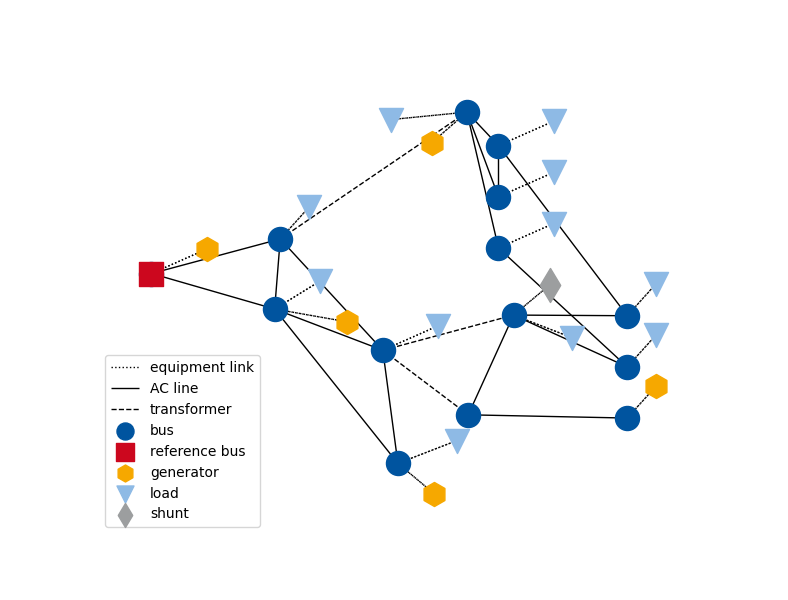
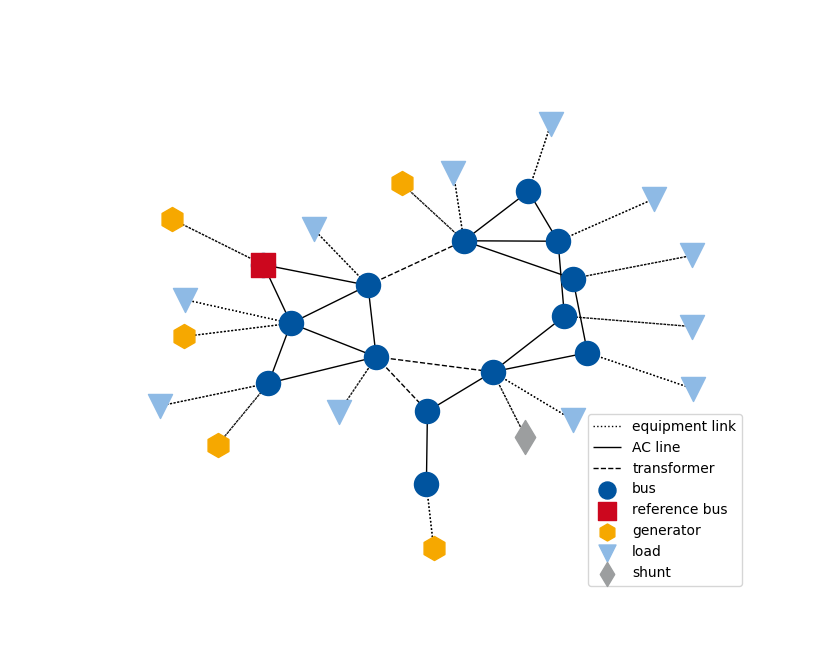
change drawing layout to pos = nx.nx_pydot.graphviz_layout(G); fixes #3

diff --git a/opf_dataset_utils/plotting/draw.py b/opf_dataset_utils/plotting/draw.py
@@ -12,7 +12,6 @@ from opf_dataset_utils.enumerations import (
 )
 from opf_dataset_utils.plotting.utils import (
     edge_index_to_list_of_tuples,
-    set_equipment_node_distances,
 )
 
 
@@ -32,9 +31,6 @@ def draw_graph(heterogenous_data: HeteroData, ax: Axes, **nx_node_kwargs):
     -------
 
     """
-
-    # TODO maybe draw the bus subgraph first (calculate pos just for those);
-    #  then for each draw it"s loads/generators/shunts (calculate pos for that tree with the bus as a root)
 
     # to homogeneous and networkx
     homogenous_data = heterogenous_data.to_homogeneous()
@@ -56,26 +52,13 @@ def draw_graph(heterogenous_data: HeteroData, ax: Axes, **nx_node_kwargs):
 
     # determine which node is the reference node
     reference_mask = heterogenous_data.x_dict[NodeTypes.BUS][:, GridBusIndices.BUS_TYPE] == BusTypes.REFERENCE
-    reference_node = (
-        heterogenous_data.node_offsets[NodeTypes.BUS]
-        + torch.arange(0, heterogenous_data.x_dict[NodeTypes.BUS].shape[0])[reference_mask]
-    )
-    if len(reference_node) > 1:
-        reference_node = reference_node[0]
 
-    # attempt a decently clean layout
-    pos = nx.kamada_kawai_layout(
-        G,
-        dist=set_equipment_node_distances(
-            heterogenous_data, edge_type_ids, distance=0.15
-        ),  # set equipment close to their corresponding buses
-        pos=nx.bfs_layout(G, start=reference_node.item()),  # init with breath first search layout
-    )
+    pos = nx.nx_pydot.graphviz_layout(G)
 
     # draw different edge types
     ac_line_mask = homogenous_data["edge_type"] == edge_type_ids[(NodeTypes.BUS, EdgeTypes.AC_LINE, NodeTypes.BUS)]
     transformer_mask = (
-        homogenous_data["edge_type"] == edge_type_ids[(NodeTypes.BUS, EdgeTypes.TRANSFORMER, NodeTypes.BUS)]
+            homogenous_data["edge_type"] == edge_type_ids[(NodeTypes.BUS, EdgeTypes.TRANSFORMER, NodeTypes.BUS)]
     )
 
     equipment_links = edge_index_to_list_of_tuples(
@@ -111,7 +94,6 @@ def draw_graph(heterogenous_data: HeteroData, ax: Axes, **nx_node_kwargs):
                 ax=ax,
                 nodelist=torch.arange(0, homogenous_data.num_nodes)[node_mask][reference_mask].tolist(),
                 node_color="#cc071e",
-                # node_shape=node_type_shapes[node_type],
                 node_shape="s",
                 label="reference bus",
                 **nx_node_kwargs,

diff --git a/opf_dataset_utils/plotting/utils.py b/opf_dataset_utils/plotting/utils.py
@@ -6,46 +6,6 @@ from torch_geometric.data import HeteroData
 from opf_dataset_utils.enumerations import EdgeTypes
 
 
-def set_equipment_node_distances(heterogenous_data: HeteroData, edge_type_ids: Dict, distance: float = 0.2) -> Dict:
-    """
-    Set the distances of the equipment nodes from their respective bus node.
-    Parameters
-    ----------
-    heterogenous_data: HeteroData
-        Heterogenous OPFData.
-    edge_type_ids: Dict
-        Dictionary of edge types and their corresponding IDs in the edge store.
-    distance: float
-        Distance setpoint.
-
-    Returns
-    -------
-    node_distances: Dict
-        Node distances.
-    """
-    edge_lengths = {
-        EdgeTypes.GENERATOR_LINK: distance,
-        EdgeTypes.LOAD_LINK: distance,
-        EdgeTypes.SHUNT_LINK: distance,
-    }
-
-    node_distances = {}
-    for edge_type in edge_type_ids.keys():
-        if edge_type[1] in [EdgeTypes.AC_LINE, EdgeTypes.TRANSFORMER]:
-            continue
-
-        edge_index = heterogenous_data.edge_stores[edge_type_ids[edge_type]]["edge_index"]
-
-        for i, j in zip(edge_index[0], edge_index[1]):
-            source = i.item() + heterogenous_data.node_offsets[edge_type[0]]
-            target = j.item() + heterogenous_data.node_offsets[edge_type[2]]
-            if source not in node_distances:
-                node_distances[source] = {}
-            node_distances[source][target] = edge_lengths[edge_type[1]]
-
-    return node_distances
-
-
 def edge_index_to_list_of_tuples(edge_index: LongTensor) -> List[Tuple[int]]:
     """
     Turn an edge index into a list of tuples.
